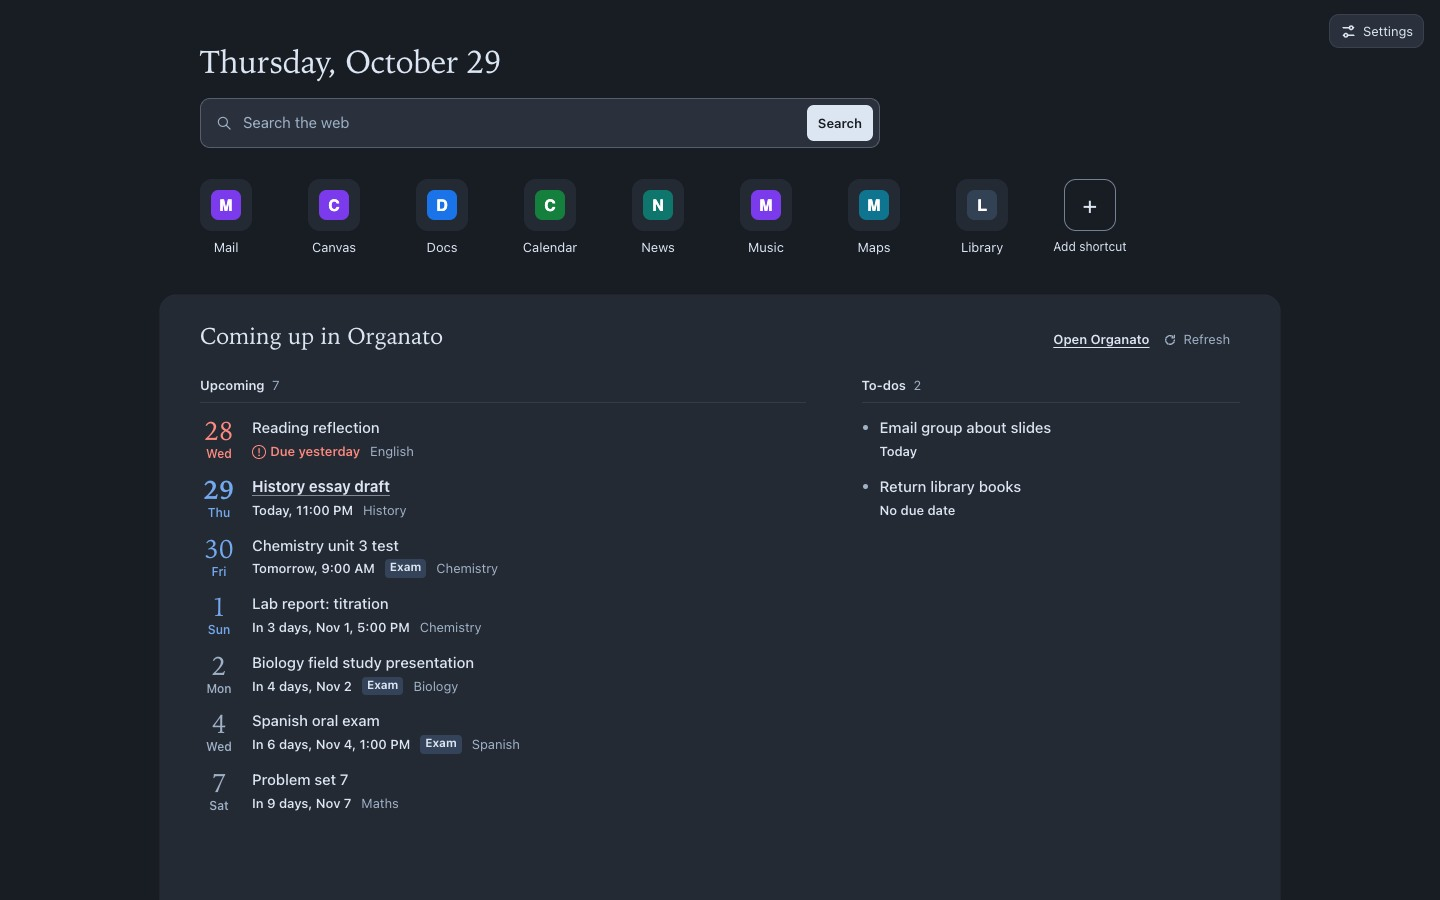
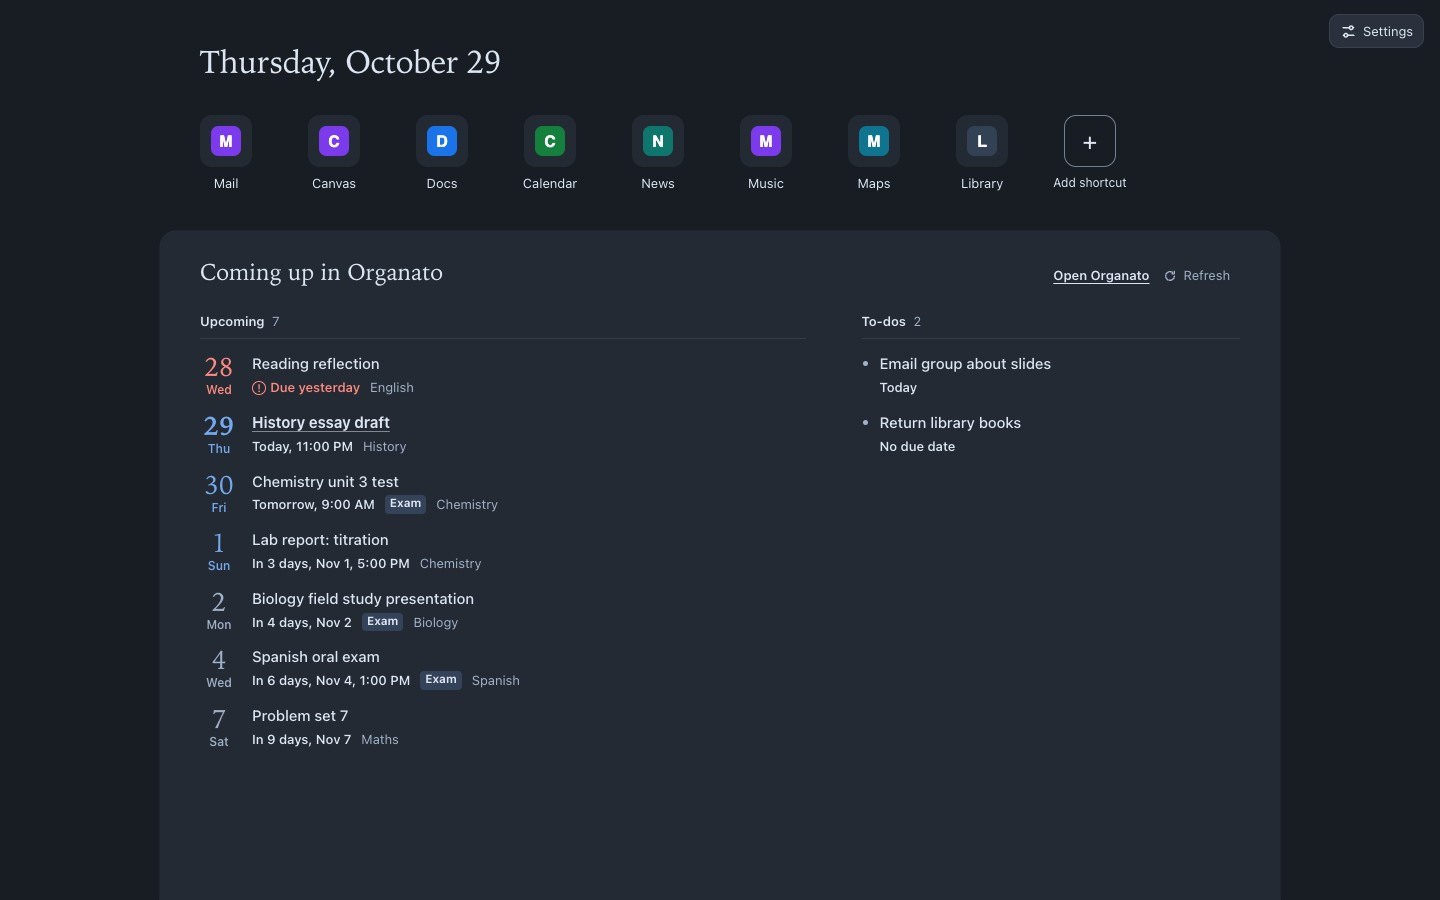
Remove the New Tab search bar

diff --git a/features/ai/extension/whats-new.html b/features/ai/extension/whats-new.html
@@ -23,7 +23,7 @@
         </defs>
         <path class="breeze-line" pathLength="1" d="M6 78 C 120 30, 210 112, 330 66 S 520 14, 560 54 C 590 84, 552 112, 526 92 C 506 76, 528 46, 566 50 C 596 54, 618 70, 634 64"/>
       </svg>
-      <p class="lede">Search from New Tab, find favorites by name, and see when Breezer AI can control a page.</p>
+      <p class="lede">Find favorites by name, reach everyday settings faster, and see when Breezer AI can control a page.</p>
       <div class="actions">
         <button class="button primary" type="button" data-action="continue">Continue browsing</button>
         <a class="button secondary" href="workspace.html#/settings">Open Settings</a>
@@ -547,7 +547,7 @@
 
     <section class="patch-notes" id="patch-135" aria-labelledby="patch-135-title">
       <p class="release">Update 1.3.5</p>
-      <h2 id="patch-135-title">Search, tabs, and settings</h2>
+      <h2 id="patch-135-title">Favorites, tabs, and settings</h2>
       <div class="patch-lead">
         <figure class="plate patch-plate" aria-hidden="true">
           <svg class="art" viewBox="0 0 320 192" focusable="false">
@@ -561,20 +561,16 @@
             <rect class="bar" x="56" y="56" width="20" height="3" rx="1.5"/>
             <path class="line" d="M22 89h52m-52 18h43m-43 18h47"/>
             <rect class="bar strong" x="107" y="35" width="99" height="8" rx="4"/>
-            <rect class="paper" x="107" y="57" width="174" height="28" rx="7"/>
-            <circle class="line" cx="121" cy="70" r="4"/>
-            <path class="line" d="m124 73 3 3m129-5h15m-5-5 5 5-5 5"/>
-            <rect class="bar" x="137" y="68" width="61" height="5" rx="2.5"/>
-            <rect class="s1" x="107" y="98" width="30" height="25" rx="6"/>
-            <rect class="s2" x="145" y="98" width="30" height="25" rx="6"/>
-            <rect class="s3" x="183" y="98" width="30" height="25" rx="6"/>
+            <rect class="s1" x="107" y="60" width="30" height="25" rx="6"/>
+            <rect class="s2" x="145" y="60" width="30" height="25" rx="6"/>
+            <rect class="s3" x="183" y="60" width="30" height="25" rx="6"/>
             <rect class="well" x="107" y="141" width="196" height="36" rx="8"/>
             <path class="line" d="M118 153h67m-67 10h46m80-10h42m-42 10h32"/>
           </svg>
         </figure>
         <div class="patch-copy">
-          <h3>Start browsing from New Tab</h3>
-          <p>Search with your default search engine directly from New Tab. Sidebar favorites show their names, and an outline marks the active favorite.</p>
+          <h3>Find your favorites by name</h3>
+          <p>Sidebar favorites show their names, and an outline marks the active favorite.</p>
         </div>
       </div>
       <div class="patch-pair">

diff --git a/features/ai/extension/newtab.css b/features/ai/extension/newtab.css
@@ -100,7 +100,6 @@ svg { fill: none; stroke: currentColor; stroke-width: 1.5; stroke-linecap: round
   --date-size: clamp(23px, 2.6vw, 32px);
   --date-gap: 18px;
   --date-lines: 1;
-  --search-height: 64px;
   --shortcuts-height: 133px;
   width: var(--column);
   margin: 0 auto;
@@ -109,9 +108,8 @@ svg { fill: none; stroke: currentColor; stroke-width: 1.5; stroke-linecap: round
 
 /* Keep the sheet below the tallest shortcut layout without moving the tiles. */
 .sky:has(+ .sheet:not([hidden])) {
-  min-height: calc(var(--sky-top) + var(--date-size) * 1.1 * var(--date-lines) + var(--date-gap) + var(--search-height) + var(--shortcuts-height));
+  min-height: calc(var(--sky-top) + var(--date-size) * 1.1 * var(--date-lines) + var(--date-gap) + var(--shortcuts-height));
 }
-.sky:has(.web-search[hidden]) { --search-height: 0px; }
 
 .today {
   margin: 0 0 var(--date-gap);
@@ -121,29 +119,6 @@ svg { fill: none; stroke: currentColor; stroke-width: 1.5; stroke-linecap: round
   line-height: 1.1;
   letter-spacing: -0.01em;
 }
-
-.web-search {
-  display: flex;
-  align-items: center;
-  gap: 10px;
-  width: min(100%, 680px);
-  height: 50px;
-  margin-bottom: 14px;
-  padding: 0 6px 0 14px;
-  border: 1px solid color-mix(in srgb, var(--ink) 25%, transparent);
-  border-radius: 10px;
-  background: var(--raised);
-  color: var(--muted);
-}
-.web-search:focus-within { outline: 2px solid var(--focus); outline-offset: 2px; }
-.web-search svg { width: 18px; height: 18px; flex: none; }
-.web-search input { min-width: 0; flex: 1; padding: 6px 0; border: 0; background: transparent; color: var(--ink); font: inherit; }
-.web-search input:focus-visible { outline: none; }
-.web-search input::placeholder { color: var(--muted); opacity: 1; }
-.web-search button { display: flex; align-items: center; gap: 6px; min-height: 36px; padding-inline: 11px; border: 0; border-radius: 7px; background: var(--ink); color: var(--canvas); font-size: 13px; font-weight: 600; cursor: pointer; }
-.web-search button:hover:not(:disabled) { background: color-mix(in srgb, var(--ink) 85%, var(--accent)); }
-.web-search button:disabled { opacity: .65; }
-#web-search-status { margin: -10px 0 12px; color: var(--danger); font-size: 13px; }
 
 .sites-nav { min-height: 107px; }
 

diff --git a/features/ai/extension/newtab.js b/features/ai/extension/newtab.js
@@ -494,41 +494,9 @@ function renderToday(root, now) {
   root.getElementById('today').textContent = longDate.format(now);
 }
 
-function connectSearch(root, api) {
-  const form = root.getElementById('web-search');
-  if (!form) return;
-  if (!api?.search?.query || !api.tabs?.getCurrent) {
-    form.hidden = true;
-    return;
-  }
-  const input = root.getElementById('web-query');
-  const status = root.getElementById('web-search-status');
-  const submit = form.querySelector('button');
-  input.addEventListener('input', () => { status.hidden = true; });
-  form.addEventListener('submit', async (event) => {
-    event.preventDefault();
-    const query = input.value.trim();
-    if (!query || submit.disabled) return;
-    submit.disabled = true;
-    status.hidden = true;
-    try {
-      const tab = await api.tabs.getCurrent();
-      if (!Number.isInteger(tab?.id)) throw new Error('New tab was closed');
-      await api.search.query({ text: query, tabId: tab.id });
-    } catch {
-      status.textContent = 'Couldn’t search. Try again or use the address bar.';
-      status.hidden = false;
-      input.focus();
-    } finally {
-      submit.disabled = false;
-    }
-  });
-}
-
 // ------------------------------------------------------------------ page
 
 export function startNewTab({ api = globalThis.chrome, root = document, now = () => new Date() } = {}) {
-  connectSearch(root, api);
   const lanes = root.getElementById('organato-lists');
   const laneButtons = lanes.querySelectorAll('.agenda-switch button');
   for (const button of laneButtons) {

diff --git a/site/index.html b/site/index.html
@@ -62,7 +62,7 @@
           <div class="chrome" aria-hidden="true"><i></i><i></i><i></i><span class="url">New tab</span></div>
           <div class="window-body">
             <img class="win-sidebar" src="/shots/sidebar.png" alt="" width="480" height="1640">
-            <img class="win-page" src="/shots/newtab-light.jpg" alt="Breezer's new tab with web search, site shortcuts, and upcoming work from Organato." width="1440" height="900" fetchpriority="high">
+            <img class="win-page" src="/shots/newtab-light.jpg" alt="Breezer's new tab with site shortcuts and upcoming work from Organato." width="1440" height="900" fetchpriority="high">
           </div>
         </div>
         <img class="float float-assistant" src="/shots/assistant.png" alt="The Breezer assistant summarizing a page in the sidebar." width="800" height="1700">

diff --git a/features/ai/extension/newtab.html b/features/ai/extension/newtab.html
@@ -12,12 +12,6 @@
 
   <header class="sky">
     <h1 id="today" class="today">New tab</h1>
-    <form id="web-search" class="web-search" role="search" aria-label="Search the web">
-      <svg viewBox="0 0 24 24" aria-hidden="true"><circle cx="10.5" cy="10.5" r="6"/><path d="m15 15 5 5"/></svg>
-      <input id="web-query" type="search" aria-label="Search the web" placeholder="Search the web" aria-describedby="web-search-status" autocomplete="off" maxlength="2048">
-      <button type="submit" id="web-submit">Search</button>
-    </form>
-    <p id="web-search-status" role="status" hidden></p>
     <nav class="sites-nav" aria-label="Frequently visited sites">
       <ol id="sites" class="sites" aria-busy="true"></ol>
       <p id="sites-empty" class="sites-empty" hidden>Sites you visit often will appear here.</p>
